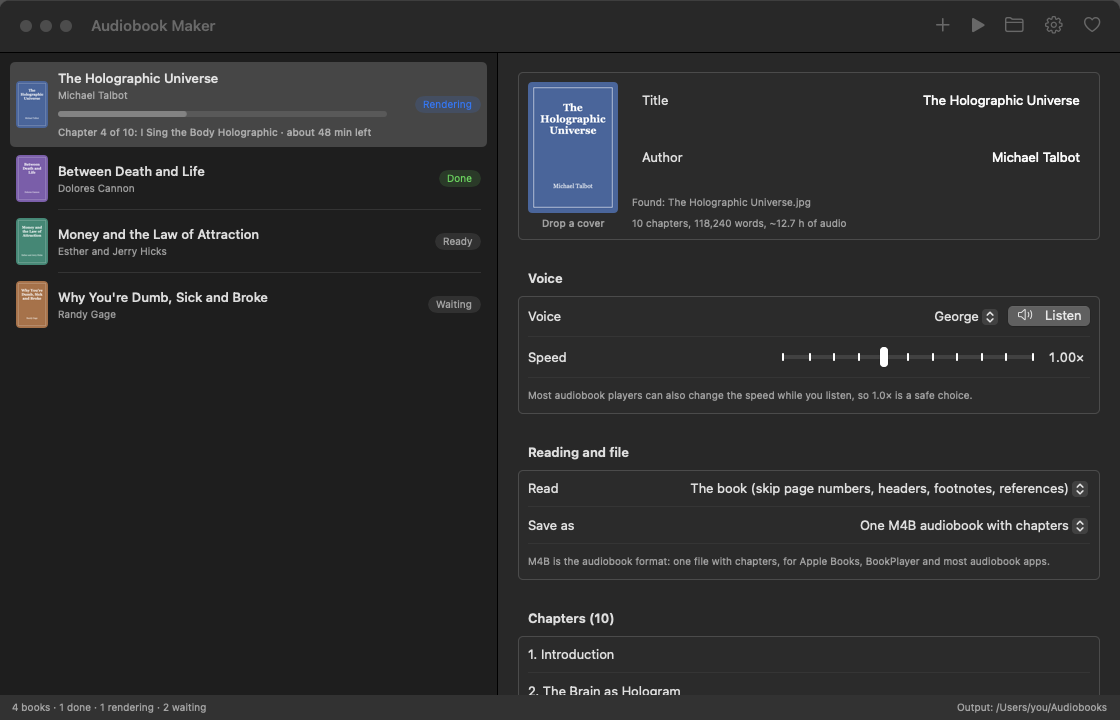
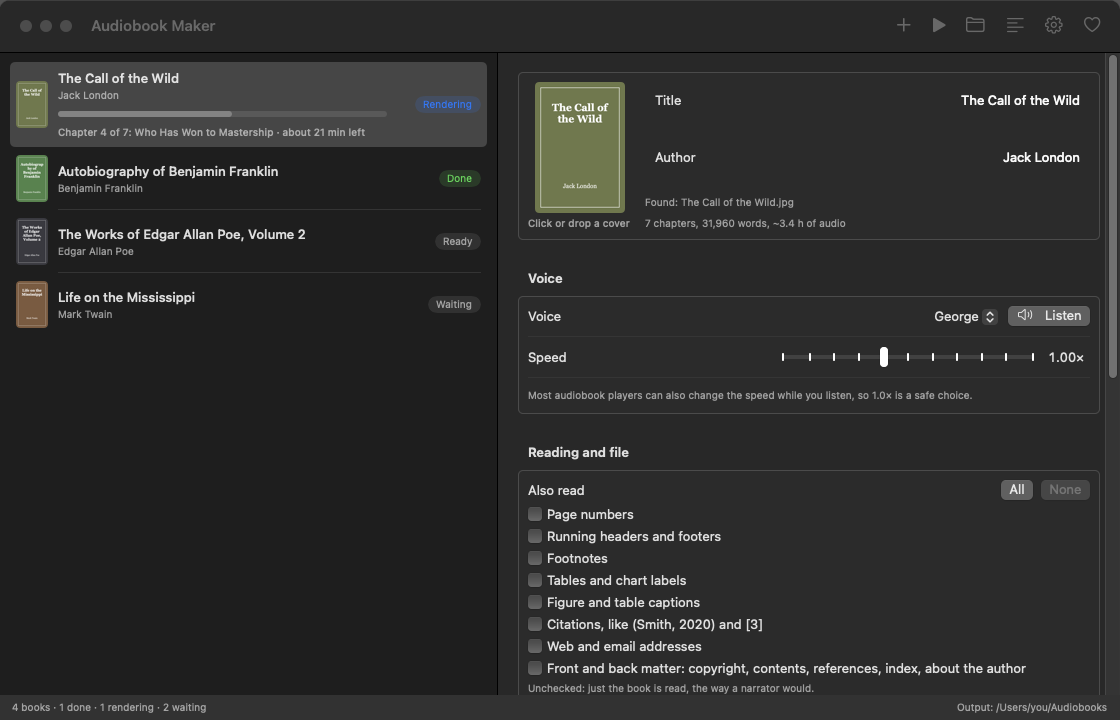
Support macOS 13 for real; public-domain demo books in the screenshots
PyTorch 2.12+, onnxruntime 1.24+ and av 16+ only ship macOS 14 builds, so pin torch 2.11.0,
onnxruntime 1.23.2 and av 15.1.0 (tested: same length, 99% matching audio, same speed). The offline
DMG now downloads macOS 13 wheels and refuses to build if any need a newer macOS. Screenshots show
four public-domain classics, with the Log panel hidden.

diff --git a/app/Sources/AudiobookMaker/Screenshots.swift b/app/Sources/AudiobookMaker/Screenshots.swift
@@ -11,9 +11,11 @@ enum Screenshots {
         // the demo changes these saved settings; put them back afterwards
         let savedVoice = UserDefaults.standard.string(forKey: "voice")
         let savedOutput = UserDefaults.standard.string(forKey: "outputPath")
+        let savedShowLog = model.showLog
         func restore() {
             UserDefaults.standard.set(savedVoice, forKey: "voice")
             UserDefaults.standard.set(savedOutput, forKey: "outputPath")
+            UserDefaults.standard.set(savedShowLog, forKey: "showLog")
         }
         loadDemo(model)
         try? await Task.sleep(nanoseconds: 1_500_000_000)
@@ -71,17 +73,17 @@ enum Screenshots {
 
     private static func loadDemo(_ model: AppModel) {
         let demo: [(String, String, NSColor, BookState, Double, String)] = [
-            ("The Holographic Universe", "Michael Talbot", NSColor(calibratedRed: 0.20, green: 0.32, blue: 0.55, alpha: 1),
-             .rendering, 0.38, "Chapter 4 of 10: I Sing the Body Holographic · about 48 min left"),
-            ("Between Death and Life", "Dolores Cannon", NSColor(calibratedRed: 0.42, green: 0.27, blue: 0.62, alpha: 1),
-             .done, 1, "Dolores Cannon - Between Death and Life.m4b"),
-            ("Money and the Law of Attraction", "Esther and Jerry Hicks", NSColor(calibratedRed: 0.13, green: 0.47, blue: 0.38, alpha: 1),
+            ("The Call of the Wild", "Jack London", NSColor(calibratedRed: 0.36, green: 0.40, blue: 0.22, alpha: 1),
+             .rendering, 0.52, "Chapter 4 of 7: Who Has Won to Mastership · about 21 min left"),
+            ("Autobiography of Benjamin Franklin", "Benjamin Franklin", NSColor(calibratedRed: 0.24, green: 0.45, blue: 0.22, alpha: 1),
+             .done, 1, "Autobiography of Benjamin Franklin.m4b"),
+            ("The Works of Edgar Allan Poe, Volume 2", "Edgar Allan Poe", NSColor(calibratedRed: 0.17, green: 0.17, blue: 0.19, alpha: 1),
              .ready, 0, ""),
-            ("Why You're Dumb, Sick and Broke", "Randy Gage", NSColor(calibratedRed: 0.62, green: 0.36, blue: 0.20, alpha: 1),
+            ("Life on the Mississippi", "Mark Twain", NSColor(calibratedRed: 0.42, green: 0.28, blue: 0.18, alpha: 1),
              .waiting, 0, ""),
         ]
         model.books = demo.map { title, author, color, state, progress, detail in
-            let book = Book(url: URL(fileURLWithPath: "/Books/\(title).pdf"))
+            let book = Book(url: URL(fileURLWithPath: "/Books/\(title).epub"))
             book.title = title
             book.author = author
             book.cover = cover(title: title, author: author, color: color)
@@ -90,19 +92,19 @@ enum Screenshots {
             book.detail = detail
             return book
         }
-        let talbot = model.books[0]
-        talbot.summary = "10 chapters, 118,240 words, ~12.7 h of audio"
-        talbot.coverNote = "Found: The Holographic Universe.jpg"
-        talbot.chapters = ["Introduction", "The Brain as Hologram", "The Cosmos as Hologram",
-                           "The Holographic Model and Psychology", "I Sing the Body Holographic",
-                           "A Pocketful of Miracles", "Seeing Holographically", "Time Out of Mind",
-                           "Traveling in the Superhologram", "Return to the Dreamtime"]
-        talbot.unknownWords = [WordCount(word: "Pribram", count: 64), WordCount(word: "superhologram", count: 12),
-                               WordCount(word: "Grof", count: 38), WordCount(word: "Ullman", count: 9)]
-        model.selection = talbot.id
+        let london = model.books[0]
+        london.summary = "7 chapters, 31,960 words, ~3.4 h of audio"
+        london.coverNote = "Found: The Call of the Wild.jpg"
+        london.chapters = ["Into the Primitive", "The Law of Club and Fang", "The Dominant Primordial Beast",
+                           "Who Has Won to Mastership", "The Toil of Trace and Trail", "For the Love of a Man",
+                           "The Sounding of the Call"]
+        london.unknownWords = [WordCount(word: "Sol-leks", count: 18), WordCount(word: "Dyea", count: 4),
+                               WordCount(word: "Skaguay", count: 3), WordCount(word: "Perrault", count: 31)]
+        model.selection = london.id
         model.voice = "bm_george"
         model.outputPath = "/Users/you/Audiobooks"  // a neutral path for the status bar
         model.lastMessage = ""
+        model.showLog = false
     }
 
     private static func cover(title: String, author: String, color: NSColor) -> NSImage {

diff --git a/README.md b/README.md
@@ -15,7 +15,7 @@ On an M1 Pro it runs at about **5.5× realtime** on CPU, so a 6.6-hour book take
 - Open the `.dmg` and drag **Audiobook Maker** to Applications.
 - The app isn't registered with Apple, so the first time macOS blocks it: go to **System Settings → Privacy and Security** and click **Open Anyway**. You only do this once.
 - On first launch it downloads its voice engine (about 1.3 GB, one time). After that it works offline and your books never leave your Mac.
-- **No internet on that Mac, or a slow connection?** Download **`Audiobook-Maker-0.1-offline.dmg`** from the same release instead (about 700 MB). Python, the libraries and all 28 English voices are inside it, so setup takes seconds and needs no connection.
+- **No internet on that Mac, or a slow connection?** Download **`Audiobook-Maker-0.1-offline.dmg`** from the same release instead (about 660 MB). Python, the libraries and all 28 English voices are inside it, so setup takes seconds and needs no connection.
 
 Drag in PDFs, EPUBs or text files, check the chapters, pick one of 28 voices, fix any mispronounced words, and render a queue of audiobooks with chapters and covers. Everything below is the command-line version of the same tools.
 
